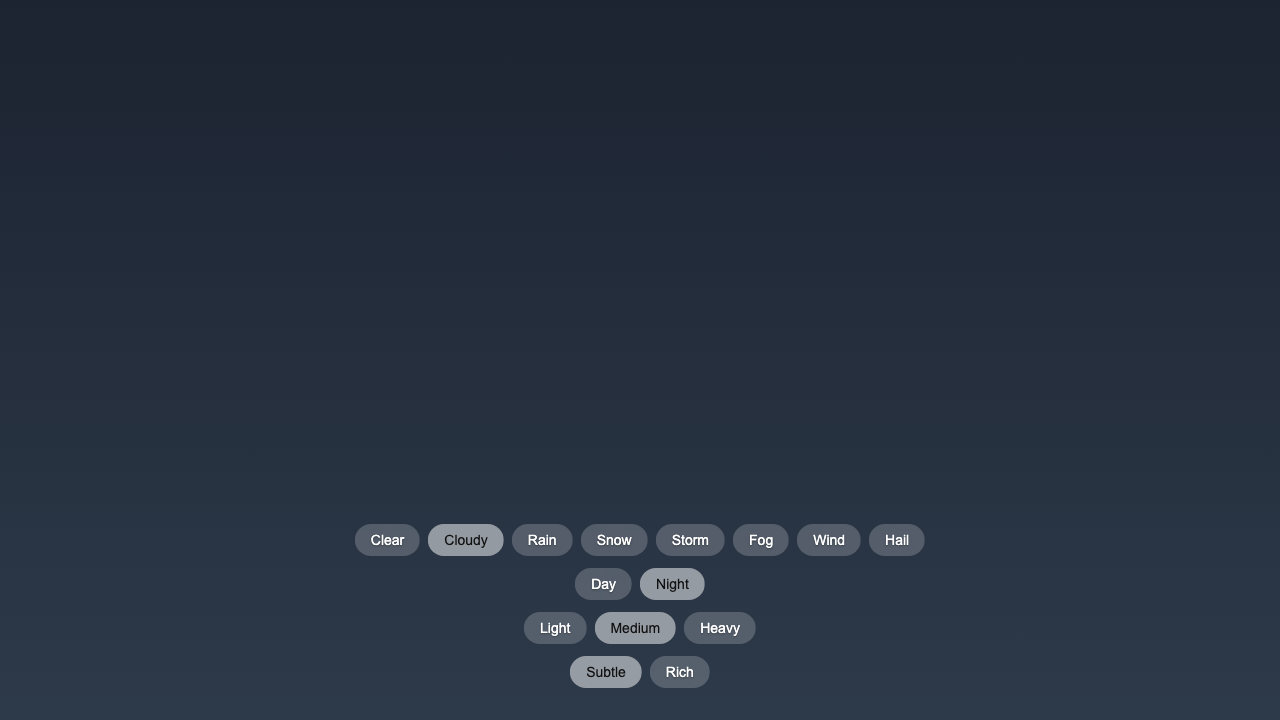
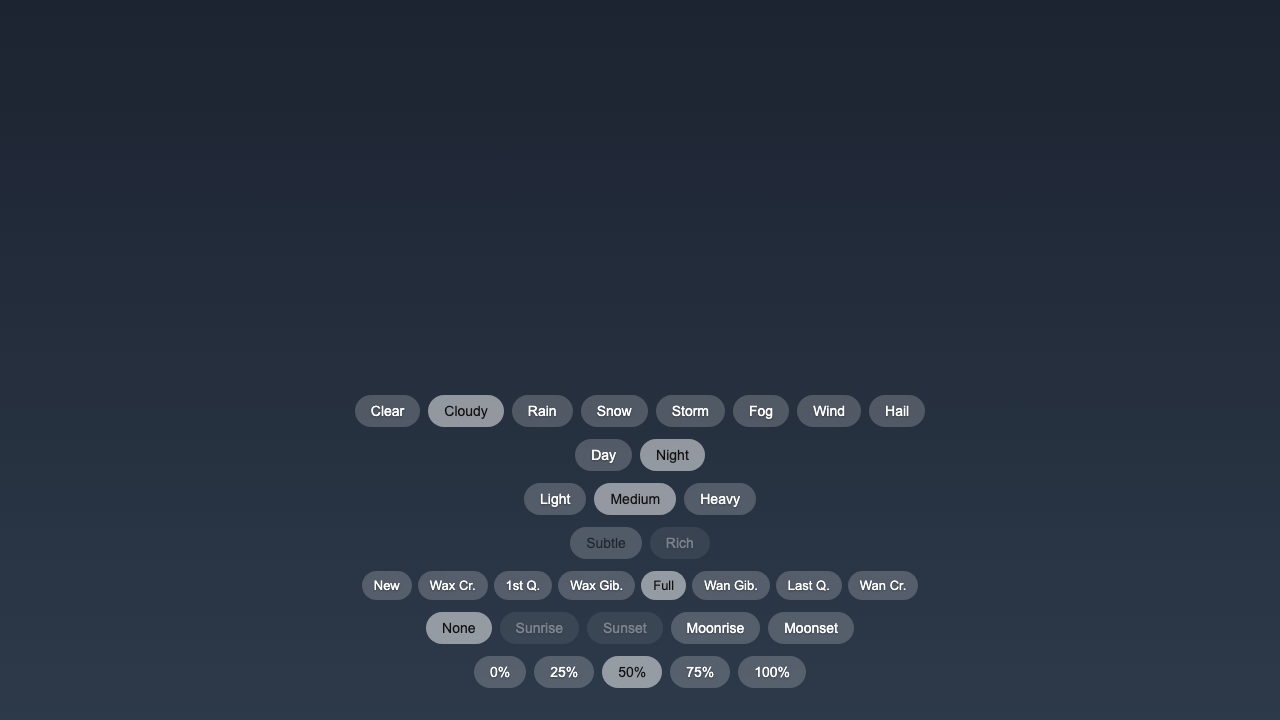
fix(atmosphere): refine wind detail and fidelity controls

Changed region(s): [[0.2812, 0.55, 0.7188, 0.9778]]

diff --git a/tests/unit/particles.test.ts b/tests/unit/particles.test.ts
@@ -1,5 +1,6 @@
 import { describe, it, expect } from 'vitest';
-import { ParticlePool, getFidelityScale, depthFactor, rainSplashes, splashRadius, splashAlpha, gustOffset, bounceVelocity, shouldStopBouncing, hailBounceConfig } from '../../src/core/particles';
+import { ParticlePool, ParticleSystem, getFidelityScale, depthFactor, rainSplashes, splashRadius, splashAlpha, gustOffset, bounceVelocity, shouldStopBouncing, hailBounceConfig, windGustSpeedMultiplier } from '../../src/core/particles';
+import { seedRng } from '../../src/core/rng';
 import { resolveConfig } from '../../src/core/types';
 
 describe('ParticlePool', () => {
@@ -147,5 +148,53 @@ describe('hail bounce', () => {
   });
   it('keeps bouncing while energetic and under the cap', () => {
     expect(shouldStopBouncing(-300, 1, 2, 80)).toBe(false);
+  });
+});
+
+describe('wind particles', () => {
+  it('increases gust speed by intensity', () => {
+    expect(windGustSpeedMultiplier('light')).toBeLessThan(windGustSpeedMultiplier('medium'));
+    expect(windGustSpeedMultiplier('medium')).toBeLessThan(windGustSpeedMultiplier('heavy'));
+    expect(windGustSpeedMultiplier('medium')).toBe(1);
+  });
+
+  it('spawns subtle gust strokes without leaf particles in rich fidelity', () => {
+    seedRng(12345);
+    const system = new ParticleSystem();
+    system.init(resolveConfig({ condition: 'wind', intensity: 'medium', fidelity: 'rich' }), 800, 400);
+
+    for (let i = 0; i < 20; i++) system.update(0.1);
+
+    const particles = (system as any).pool.particles.filter((p: any) => p.active);
+    const gusts = particles.filter((p: any) => p.kind === 'primary');
+
+    expect(particles.every((p: any) => p.kind === 'primary')).toBe(true);
+    expect(gusts.length).toBeGreaterThan(20);
+    expect(Math.max(...gusts.map((p: any) => p.alpha))).toBeLessThanOrEqual(0.42);
+    expect(Math.max(...gusts.map((p: any) => p.length))).toBeLessThanOrEqual(82);
+  });
+
+  it('keeps a gust alive while any part of the stroke is still visible', () => {
+    const system = new ParticleSystem();
+    system.init(resolveConfig({ condition: 'wind' }), 100, 100);
+    const particle = (system as any).pool.particles[0];
+    Object.assign(particle, {
+      active: true,
+      kind: 'primary',
+      x: -50,
+      y: 50,
+      vx: 0,
+      vy: 0,
+      alpha: 0.3,
+      size: 1,
+      length: 80,
+      phase: 0,
+      depth: 0.5,
+      bounces: 0,
+    });
+
+    system.update(0);
+
+    expect(particle.active).toBe(true);
   });
 });

diff --git a/src/core/particles.ts b/src/core/particles.ts
@@ -106,6 +106,16 @@ export function hailBounceConfig(intensity: ResolvedConfig['intensity'], rich: b
   };
 }
 
+const WIND_GUST_SPEED_MULTIPLIER: Record<ResolvedConfig['intensity'], number> = {
+  light: 0.7,
+  medium: 1,
+  heavy: 1.35,
+};
+
+export function windGustSpeedMultiplier(intensity: ResolvedConfig['intensity']): number {
+  return WIND_GUST_SPEED_MULTIPLIER[intensity];
+}
+
 // --- Particle System ---
 
 const POOL_SIZE = 900;
@@ -178,6 +188,13 @@ export class ParticleSystem {
         p.alpha = 0.5 + 0.5 * Math.sin(p.phase * 2.5 + p.size);
       }
 
+      if (cfg.condition === 'wind' && p.kind === 'primary') {
+        if (p.y > h + 30 || p.y < -30 || p.x < -p.length || p.x > w + 20) {
+          p.active = false;
+        }
+        continue;
+      }
+
       // Rain/storm impact → splash at the bottom edge (intensity-gated; rich = more, bigger).
       if ((cfg.condition === 'rain' || cfg.condition === 'storm') && p.kind === 'primary' && p.y > h && rainSplashes(cfg.intensity)) {
         const threshold = rich ? 0.3 : 0.6;
@@ -218,7 +235,7 @@ export class ParticleSystem {
       rain: 120 * scale,
       'storm-rain': 280 * scale,
       snow: 30 * scale,
-      wind: 60 * scale,
+      wind: 36 * scale,
       hail: 90 * scale,
     };
     const condKey = cfg.condition === 'storm' ? 'storm-rain' : cfg.condition;
@@ -231,7 +248,7 @@ export class ParticleSystem {
         if (cfg.condition === 'rain') spawnRain(this.pool, w);
         else if (cfg.condition === 'storm') spawnStormRain(this.pool, w);
         else if (cfg.condition === 'snow') spawnSnow(this.pool, w);
-        else if (cfg.condition === 'wind') spawnWind(this.pool, w, h, rich);
+        else if (cfg.condition === 'wind') spawnWind(this.pool, w, h, rich, cfg.intensity);
         else if (cfg.condition === 'hail') spawnHail(this.pool, w);
       }
     }
@@ -322,11 +339,14 @@ function drawParticle(ctx: CanvasRenderingContext2D, p: Particle, cfg: ResolvedC
       ctx.stroke();
     }
   } else if (cfg.condition === 'wind') {
-    ctx.strokeStyle = `rgba(180,210,240,${p.alpha})`;
-    ctx.lineWidth = 1;
+    const curve = -p.length * (0.04 + p.depth * 0.08) + Math.sin(p.phase * 0.7 + p.depth * 5) * p.length * 0.035;
+    const endDrift = Math.sin(p.phase * 0.9 + p.length) * 2.5;
+    ctx.lineCap = 'round';
+    ctx.strokeStyle = 'rgba(215,232,245,1)';
+    ctx.lineWidth = p.size;
     ctx.beginPath();
     ctx.moveTo(p.x, p.y);
-    ctx.quadraticCurveTo(p.x + p.length * 0.5, p.y - p.length * 0.12, p.x + p.length, p.y);
+    ctx.quadraticCurveTo(p.x + p.length * 0.52, p.y + curve, p.x + p.length, p.y + endDrift);
     ctx.stroke();
   } else if (cfg.condition === 'hail') {
     ctx.fillStyle = `rgba(225,235,245,${p.alpha})`;
@@ -447,22 +467,22 @@ function spawnStar(pool: ParticlePool, w: number, h: number): void {
   p.kind = 'primary';
 }
 
-function spawnWind(pool: ParticlePool, w: number, h: number, rich: boolean): void {
+function spawnWind(pool: ParticlePool, w: number, h: number, rich: boolean, intensity: ResolvedConfig['intensity']): void {
   const p = pool.spawn();
   if (!p) return;
   const depth = random();
-  const leaf = rich && random() < 0.12;
+  const speed = windGustSpeedMultiplier(intensity);
   p.x = -20;
   p.y = random() * h;
-  p.vx = (300 + random() * 200) * depthFactor(depth, 0.55, 1);
-  p.vy = leaf ? (random() - 0.5) * 40 : 0;
-  p.alpha = (0.2 + random() * 0.5) * depthFactor(depth, 0.5, 1);
-  p.size = leaf ? 3 + random() * 3 : 1;
-  p.length = (30 + random() * 60) * depthFactor(depth, 0.5, 1);
+  p.vx = (180 + random() * 170) * depthFactor(depth, 0.6, 1) * speed;
+  p.vy = (random() - 0.5) * (rich ? 16 : 9);
+  p.alpha = (0.12 + random() * 0.24) * depthFactor(depth, 0.55, 1);
+  p.size = (0.55 + random() * 0.85) * depthFactor(depth, 0.65, 1);
+  p.length = (26 + random() * 48) * depthFactor(depth, 0.62, 1);
   p.phase = random() * Math.PI * 2;
   p.depth = depth;
   p.bounces = 0;
-  p.kind = leaf ? 'leaf' : 'primary';
+  p.kind = 'primary';
 }
 
 function spawnHail(pool: ParticlePool, w: number): void {

diff --git a/src/core/clouds.ts b/src/core/clouds.ts
@@ -8,6 +8,7 @@ const LAYER_COUNTS: Record<0 | 1 | 2, number> = { 0: 4, 1: 5, 2: 6 };
 // light/medium/heavy read differently even when there are no particles.
 const INTENSITY_COUNT: Record<Intensity, number> = { light: 0.55, medium: 1, heavy: 1.5 };
 const INTENSITY_ALPHA: Record<Intensity, number> = { light: 0.75, medium: 1, heavy: 1.2 };
+const WIND_DRIFT_SPEED: Record<Intensity, number> = { light: 0.65, medium: 1, heavy: 1.35 };
 
 function cloudColor(config: ResolvedConfig, alpha: number): string {
   if (config.condition === 'storm') {
@@ -27,7 +28,7 @@ function cloudAlpha(config: ResolvedConfig, layer: 0 | 1 | 2): number {
   const base = config.condition === 'storm' ? 0.9
     : config.condition === 'hail' ? 0.85
     : config.condition === 'rain' ? 0.75
-    : config.condition === 'wind' ? 0.55
+    : config.condition === 'wind' ? 0.58
     : config.condition === 'cloudy' ? 0.7
     : 0.5;
   return Math.min(0.95, base * (1 - layer * 0.12) * INTENSITY_ALPHA[config.intensity]);
@@ -99,26 +100,44 @@ export function initClouds(config: ResolvedConfig, width: number, height: number
     return blobs;
   }
 
-  const layers: (0 | 1 | 2)[] = config.condition === 'wind' ? [2] : [0, 1, 2];
-  for (const layer of layers) {
-    const baseCount = config.condition === 'wind' ? 8 : LAYER_COUNTS[layer];
+  if (config.condition === 'wind') {
+    const count = config.intensity === 'light' ? 3 : config.intensity === 'medium' ? 5 : 6;
+    const layers: (0 | 1 | 2)[] = [0, 1, 2, 1, 2, 0];
+    for (let i = 0; i < count; i++) {
+      const layer = layers[i];
+      const layerScale = 1 + layer * 0.28;
+      const w = width * (0.20 + random() * 0.16) * layerScale;
+      const h = height * (0.10 + random() * 0.06) * layerScale;
+      blobs.push({
+        x: (i / count) * width * 1.35 - width * 0.18 + (random() - 0.5) * width * 0.10,
+        y: height * (0.06 + layer * 0.16 + random() * 0.07),
+        width: w,
+        height: h,
+        alpha: cloudAlpha(config, layer),
+        speed: width * (0.025 + layer * 0.012 + random() * 0.02) * WIND_DRIFT_SPEED[config.intensity],
+        layer,
+        lobes: generateLobes(w, h, random() < 0.45),
+      });
+    }
+    return blobs;
+  }
+
+  for (const layer of [0, 1, 2] as const) {
+    const baseCount = LAYER_COUNTS[layer];
     const count = Math.max(2, Math.round(baseCount * countMul));
     for (let i = 0; i < count; i++) {
-      const isWind = config.condition === 'wind';
       const layerScale = 1 + layer * 0.35;
-      const w = isWind
-        ? width * (0.15 + random() * 0.12)
-        : width * (0.22 + random() * 0.18) * layerScale;
-      const h = isWind ? height * 0.04 : height * (0.12 + random() * 0.08) * layerScale;
+      const w = width * (0.22 + random() * 0.18) * layerScale;
+      const h = height * (0.12 + random() * 0.08) * layerScale;
       blobs.push({
         x: (i / count) * width * 1.4 - width * 0.2,
         y: height * (0.04 + layer * 0.18 + random() * 0.08),
         width: w,
         height: h,
         alpha: cloudAlpha(config, layer),
-        speed: LAYER_SPEEDS[layer] * (isWind ? 3 : 1) * width,
+        speed: LAYER_SPEEDS[layer] * width,
         layer,
-        lobes: isWind ? [] : generateLobes(w, h, random() < 0.35),
+        lobes: generateLobes(w, h, random() < 0.35),
       });
     }
   }

diff --git a/tests/unit/clouds.test.ts b/tests/unit/clouds.test.ts
@@ -1,5 +1,7 @@
 import { describe, it, expect } from 'vitest';
-import { cloudSpriteMetrics, cloudVisualBounds, updateClouds } from '../../src/core/clouds';
+import { cloudSpriteMetrics, cloudVisualBounds, initClouds, updateClouds } from '../../src/core/clouds';
+import { seedRng } from '../../src/core/rng';
+import { resolveConfig } from '../../src/core/types';
 import type { CloudBlob } from '../../src/core/types';
 
 function makeWideCloud(): CloudBlob {
@@ -40,5 +42,35 @@ describe('cloud sprite geometry', () => {
     updateClouds([cloud], 1, 100);
 
     expect(cloud.x).toBe(100 - bounds.minX - 1);
+  });
+
+  it('uses fewer cloudy-like clouds for wind instead of narrow wisps', () => {
+    seedRng(12345);
+    const windy = initClouds(resolveConfig({ condition: 'wind', intensity: 'medium' }), 1000, 500);
+    seedRng(12345);
+    const cloudyLight = initClouds(resolveConfig({ condition: 'cloudy', intensity: 'light' }), 1000, 500);
+
+    expect(windy.length).toBeLessThan(cloudyLight.length);
+    expect(windy.length).toBeGreaterThanOrEqual(3);
+    expect(windy.every((cloud) => cloud.lobes.length >= 4)).toBe(true);
+    expect(Math.min(...windy.map((cloud) => cloud.height / 500))).toBeGreaterThan(0.08);
+    expect(Math.max(...windy.map((cloud) => cloud.alpha))).toBeLessThanOrEqual(
+      Math.max(...cloudyLight.map((cloud) => cloud.alpha)) * 1.15,
+    );
+  });
+
+  it('increases wind cloud drift speed by intensity', () => {
+    const averageSpeed = (intensity: 'light' | 'medium' | 'heavy') => {
+      seedRng(12345);
+      const clouds = initClouds(resolveConfig({ condition: 'wind', intensity }), 1000, 500);
+      return clouds.reduce((sum, cloud) => sum + cloud.speed, 0) / clouds.length;
+    };
+
+    const light = averageSpeed('light');
+    const medium = averageSpeed('medium');
+    const heavy = averageSpeed('heavy');
+
+    expect(medium).toBeGreaterThan(light * 1.2);
+    expect(heavy).toBeGreaterThan(medium * 1.15);
   });
 });

diff --git a/src/demo/main.ts b/src/demo/main.ts
@@ -1,4 +1,4 @@
-import { isCelestialEventVisible, WeatherScene } from '../core/index';
+import { isCelestialEventVisible, isFidelityEffective, WeatherScene } from '../core/index';
 import type { CelestialEvent, Condition, Intensity, TimeOfDay, Fidelity, MoonPhase } from '../core/index';
 import { seedRng } from '../core/rng';
 
@@ -71,8 +71,15 @@ function normalizeActiveCelestialEvent() {
   }
 }
 
+function normalizeActiveFidelity() {
+  if (!isFidelityEffective({ condition: activeCondition })) {
+    activeFidelity = 'subtle';
+  }
+}
+
 function render() {
   normalizeActiveCelestialEvent();
+  normalizeActiveFidelity();
   scene.set({
     condition: activeCondition,
     time: activeTime,
@@ -96,6 +103,7 @@ function buildControls() {
     btn.addEventListener('click', () => {
       activeCondition = cond;
       normalizeActiveCelestialEvent();
+      normalizeActiveFidelity();
       buildControls();
       render();
     });
@@ -124,11 +132,18 @@ function buildControls() {
 
   const fidRow = document.createElement('div');
   fidRow.className = 'btn-row';
+  const fidelityEnabled = isFidelityEffective({ condition: activeCondition });
   for (const f of ['subtle', 'rich'] as Fidelity[]) {
     const btn = document.createElement('button');
     btn.textContent = f === 'subtle' ? 'Subtle' : 'Rich';
+    btn.disabled = !fidelityEnabled;
     if (f === activeFidelity) btn.classList.add('active');
-    btn.addEventListener('click', () => { activeFidelity = f; buildControls(); render(); });
+    btn.addEventListener('click', () => {
+      if (!fidelityEnabled) return;
+      activeFidelity = f;
+      buildControls();
+      render();
+    });
     fidRow.appendChild(btn);
   }
 
@@ -179,6 +194,7 @@ function buildControls() {
 }
 
 normalizeActiveCelestialEvent();
+normalizeActiveFidelity();
 buildControls();
 render();
 if (manual) scene.advance(Number(framesParam));

diff --git a/tests/unit/types.test.ts b/tests/unit/types.test.ts
@@ -1,5 +1,5 @@
 import { describe, it, expect } from 'vitest';
-import { isCelestialEventVisible, resolveConfig, VALID_CELESTIAL_EVENTS, VALID_CONDITIONS, VALID_MOON_PHASES } from '../../src/core/types';
+import { isCelestialEventVisible, isFidelityEffective, resolveConfig, VALID_CELESTIAL_EVENTS, VALID_CONDITIONS, VALID_MOON_PHASES } from '../../src/core/types';
 
 describe('hail condition', () => {
   it('is a valid condition', () => {
@@ -16,6 +16,19 @@ describe('resolveConfig fidelity', () => {
   });
   it('passes through rich', () => {
     expect(resolveConfig({ condition: 'rain', fidelity: 'rich' }).fidelity).toBe('rich');
+  });
+});
+
+describe('isFidelityEffective', () => {
+  it('is off where rich has no meaningful condition-level effect', () => {
+    expect(isFidelityEffective({ condition: 'cloudy' })).toBe(false);
+    expect(isFidelityEffective({ condition: 'fog' })).toBe(false);
+  });
+
+  it('is on for conditions with extra detail or particle behavior', () => {
+    for (const condition of ['clear', 'rain', 'snow', 'storm', 'wind', 'hail'] as const) {
+      expect(isFidelityEffective({ condition })).toBe(true);
+    }
   });
 });
 

diff --git a/src/core/sky.ts b/src/core/sky.ts
@@ -21,8 +21,8 @@ const SKY_PALETTES: Record<PaletteKey, SkyPalette> = {
   'storm:night':  { top: hexToRgb('#0a0a0f'), bottom: hexToRgb('#11111b') },
   'fog:day':      { top: hexToRgb('#c8cdd2'), bottom: hexToRgb('#e8eaed') },
   'fog:night':    { top: hexToRgb('#374151'), bottom: hexToRgb('#4b5563') },
-  'wind:day':     { top: hexToRgb('#2563a8'), bottom: hexToRgb('#93c5fd') },
-  'wind:night':   { top: hexToRgb('#1e3a5f'), bottom: hexToRgb('#1e3a8a') },
+  'wind:day':     { top: hexToRgb('#3f6f98'), bottom: hexToRgb('#a7c9df') },
+  'wind:night':   { top: hexToRgb('#223b5c'), bottom: hexToRgb('#2a4778') },
   'hail:day':     { top: hexToRgb('#2f3b3a'), bottom: hexToRgb('#4a5a55') },
   'hail:night':   { top: hexToRgb('#141c1b'), bottom: hexToRgb('#212e2b') },
 };

diff --git a/src/core/types.ts b/src/core/types.ts
@@ -109,6 +109,10 @@ export function isCelestialEventVisible(
   return config.time === 'night';
 }
 
+export function isFidelityEffective(config: Pick<ResolvedConfig, 'condition'>): boolean {
+  return config.condition !== 'cloudy' && config.condition !== 'fog';
+}
+
 export function resolveConfig(config: WeatherConfig): ResolvedConfig {
   const condition: Condition = VALID_CONDITIONS.includes(config.condition as Condition)
     ? config.condition

diff --git a/src/core/index.ts b/src/core/index.ts
@@ -3,7 +3,7 @@ import { resolveConfig } from './types';
 import { createEngineState, startTransition, tickEngine, renderEngine } from './engine';
 import type { EngineState } from './engine';
 
-export { isCelestialEventVisible } from './types';
+export { isCelestialEventVisible, isFidelityEffective } from './types';
 export type { WeatherConfig, Condition, Intensity, TimeOfDay, Fidelity, MoonPhase, CelestialEvent } from './types';
 
 export class WeatherScene {